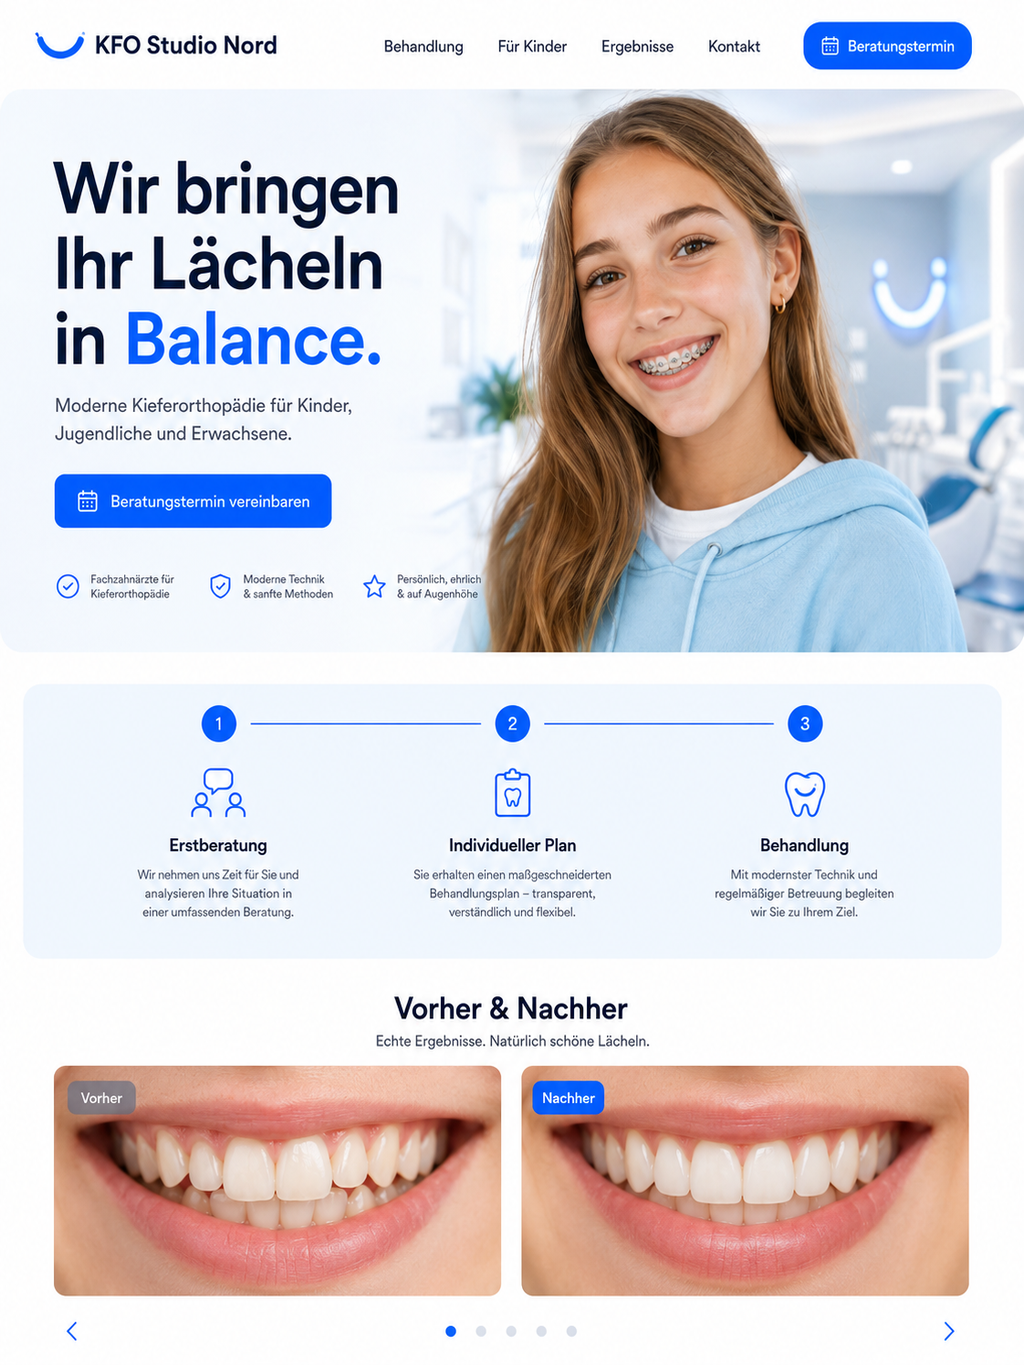
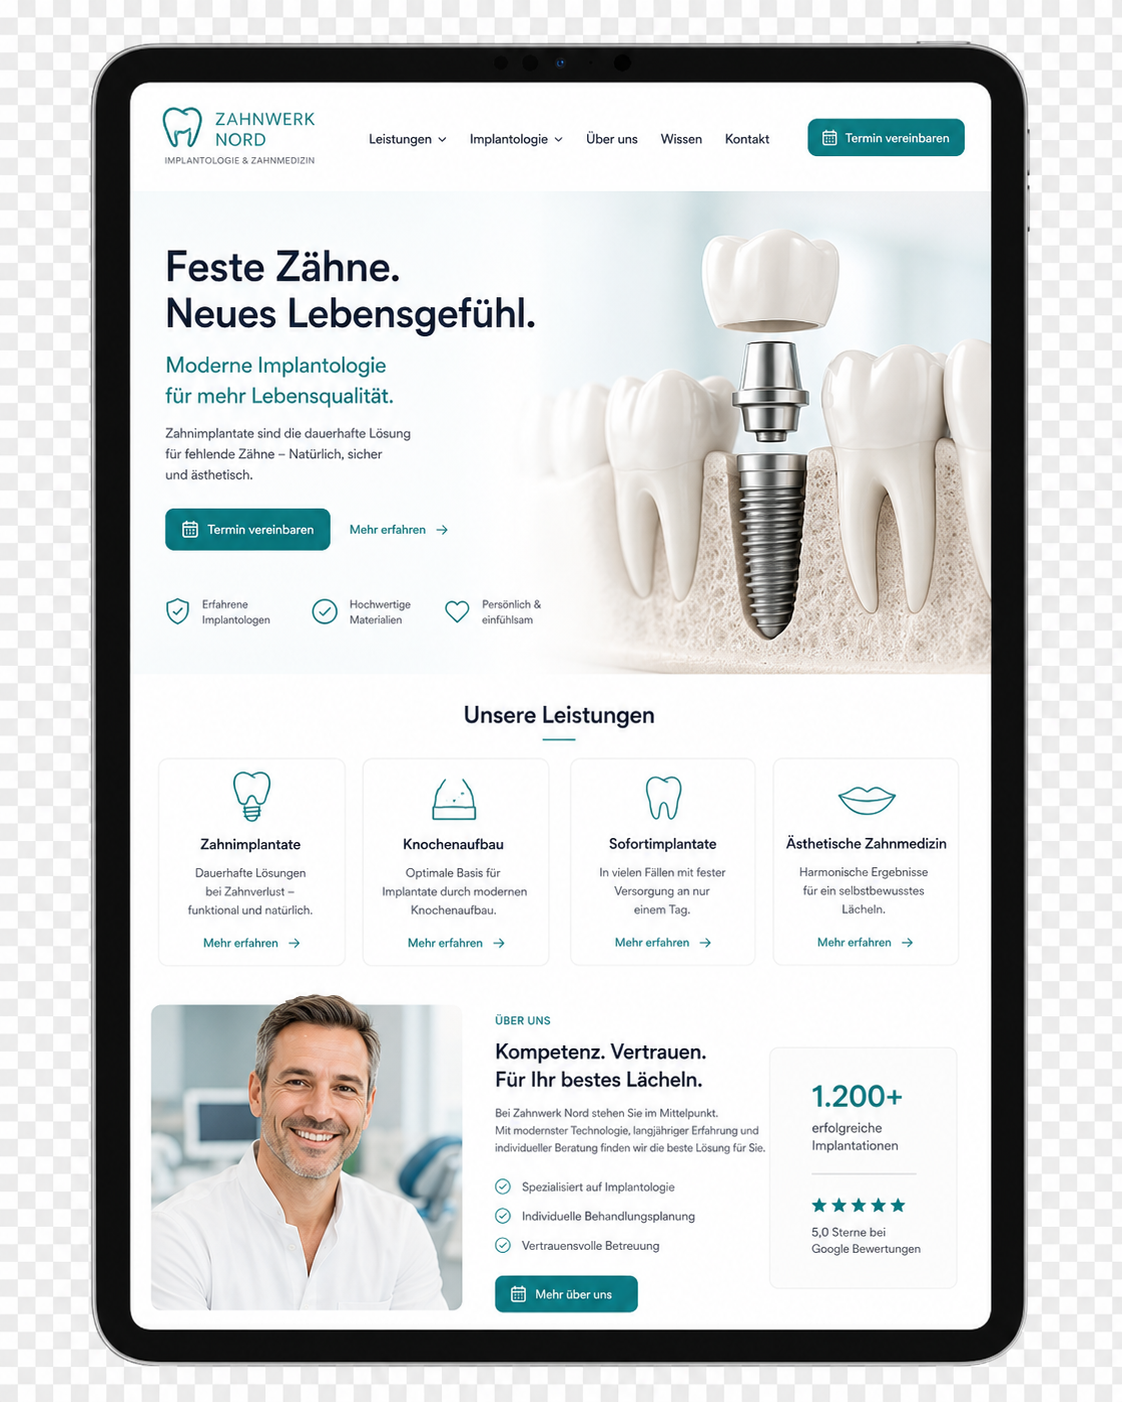
Replace iPad images with new generated ones, remove CSS tablet frame
Images already have iPad frame baked in.

diff --git a/index.html b/index.html
@@ -72,8 +72,8 @@
     @media(max-width:820px){.examples-grid{grid-template-columns:1fr;}}
     @media(min-width:500px) and (max-width:820px){.examples-grid{grid-template-columns:repeat(2,1fr);}}
     .example-card{display:flex;flex-direction:column;gap:14px;}
-    .example-tablet{background:#1a1a2e;border:6px solid #1a1a2e;border-radius:18px;padding:0;box-shadow:0 20px 40px -16px rgba(2,6,23,.4);overflow:hidden;aspect-ratio:3/4;}
-    .example-tablet img{border-radius:12px;width:100%;height:auto;display:block;}
+    .example-tablet{padding:0;overflow:hidden;border-radius:18px;box-shadow:0 20px 40px -16px rgba(2,6,23,.25);}
+    .example-tablet img{width:100%;height:auto;display:block;border-radius:0;}
     .example-tag{display:inline-block;background:var(--green-soft);color:var(--green);font-size:12px;font-weight:600;letter-spacing:.04em;text-transform:uppercase;padding:4px 11px;border-radius:999px;}
     .example-card h3{font-size:17px;font-weight:700;margin:2px 0 0;color:var(--ink);}
     .example-card p{font-size:13.5px;color:var(--muted);margin:0;line-height:1.5;}
